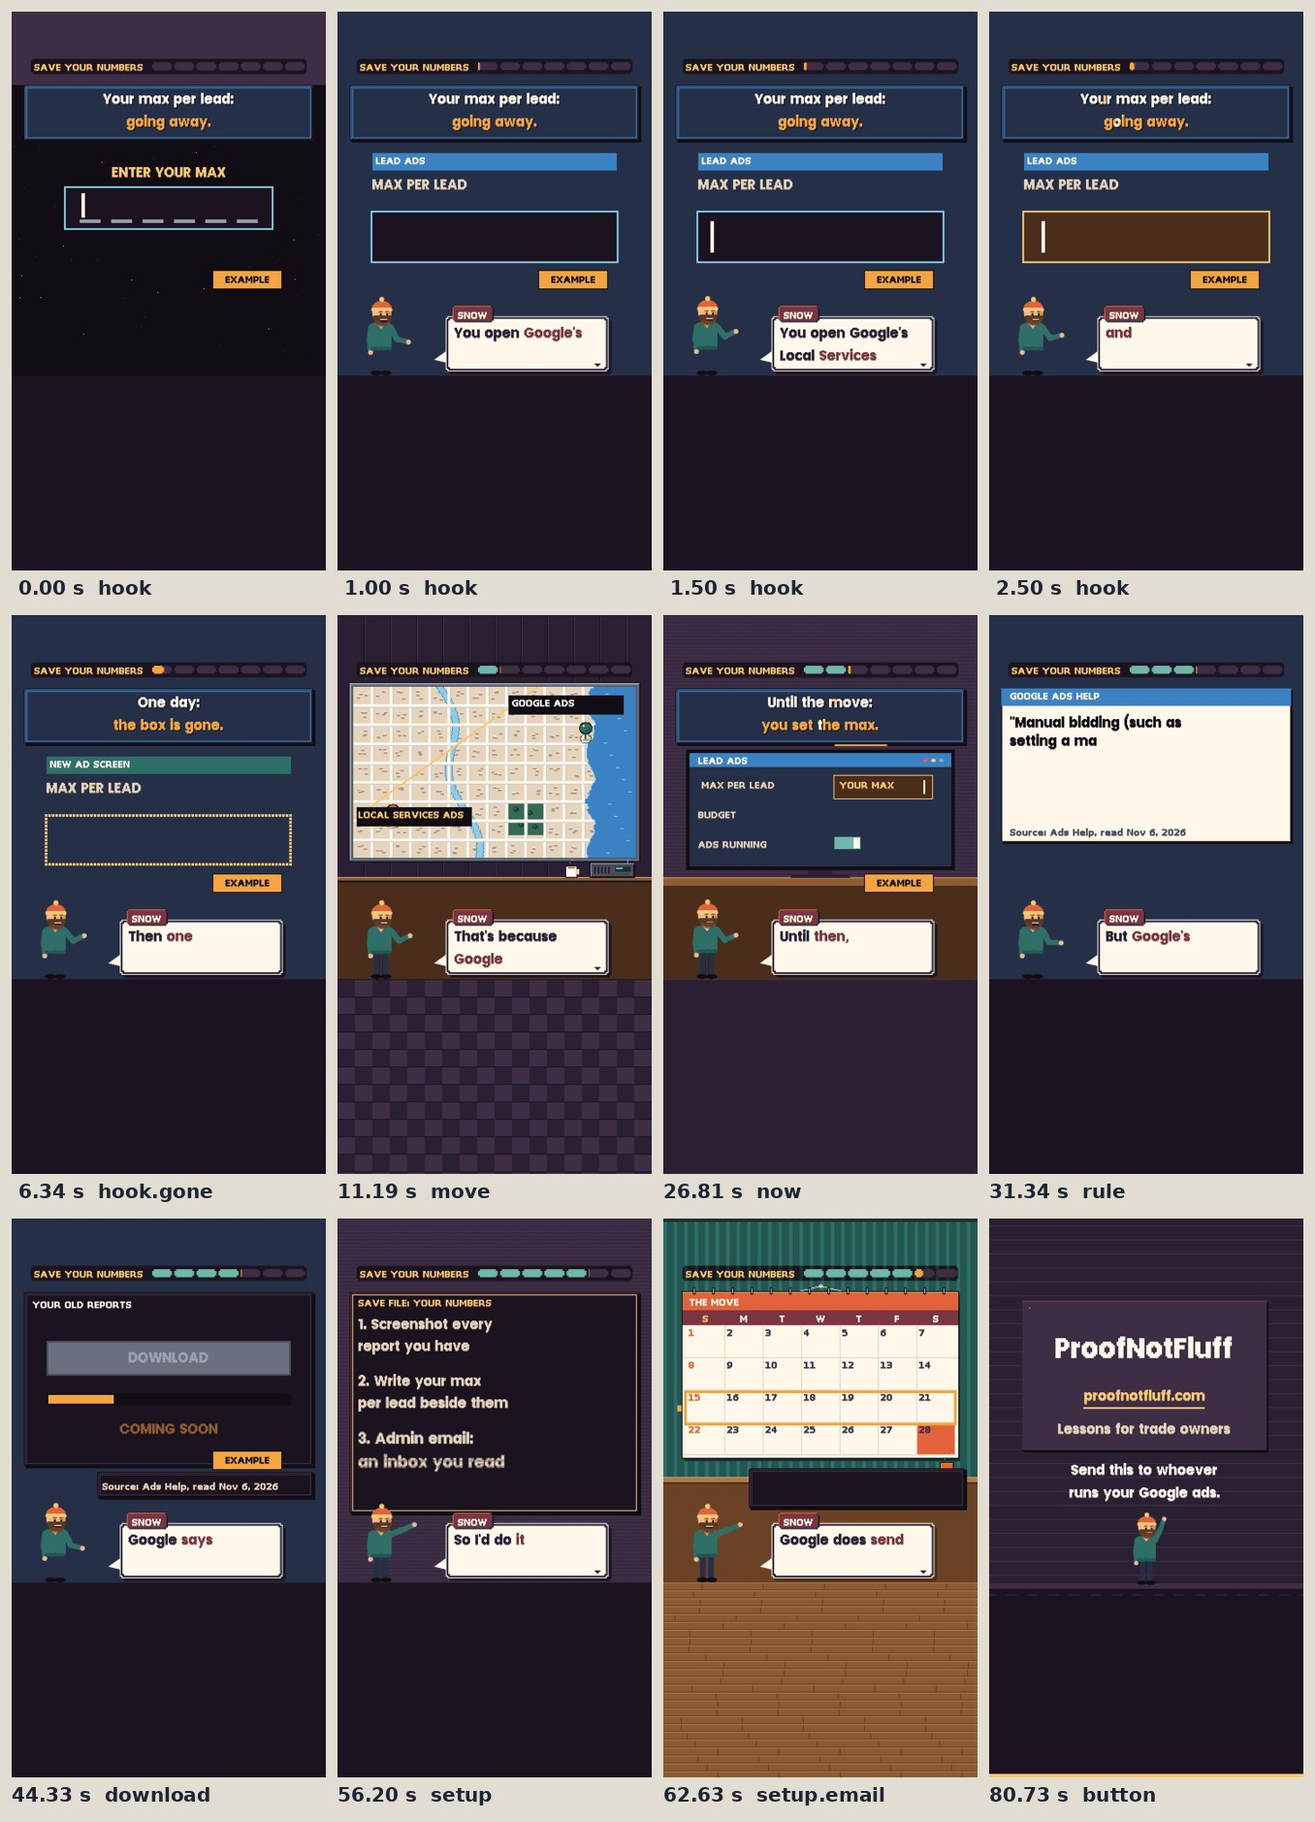
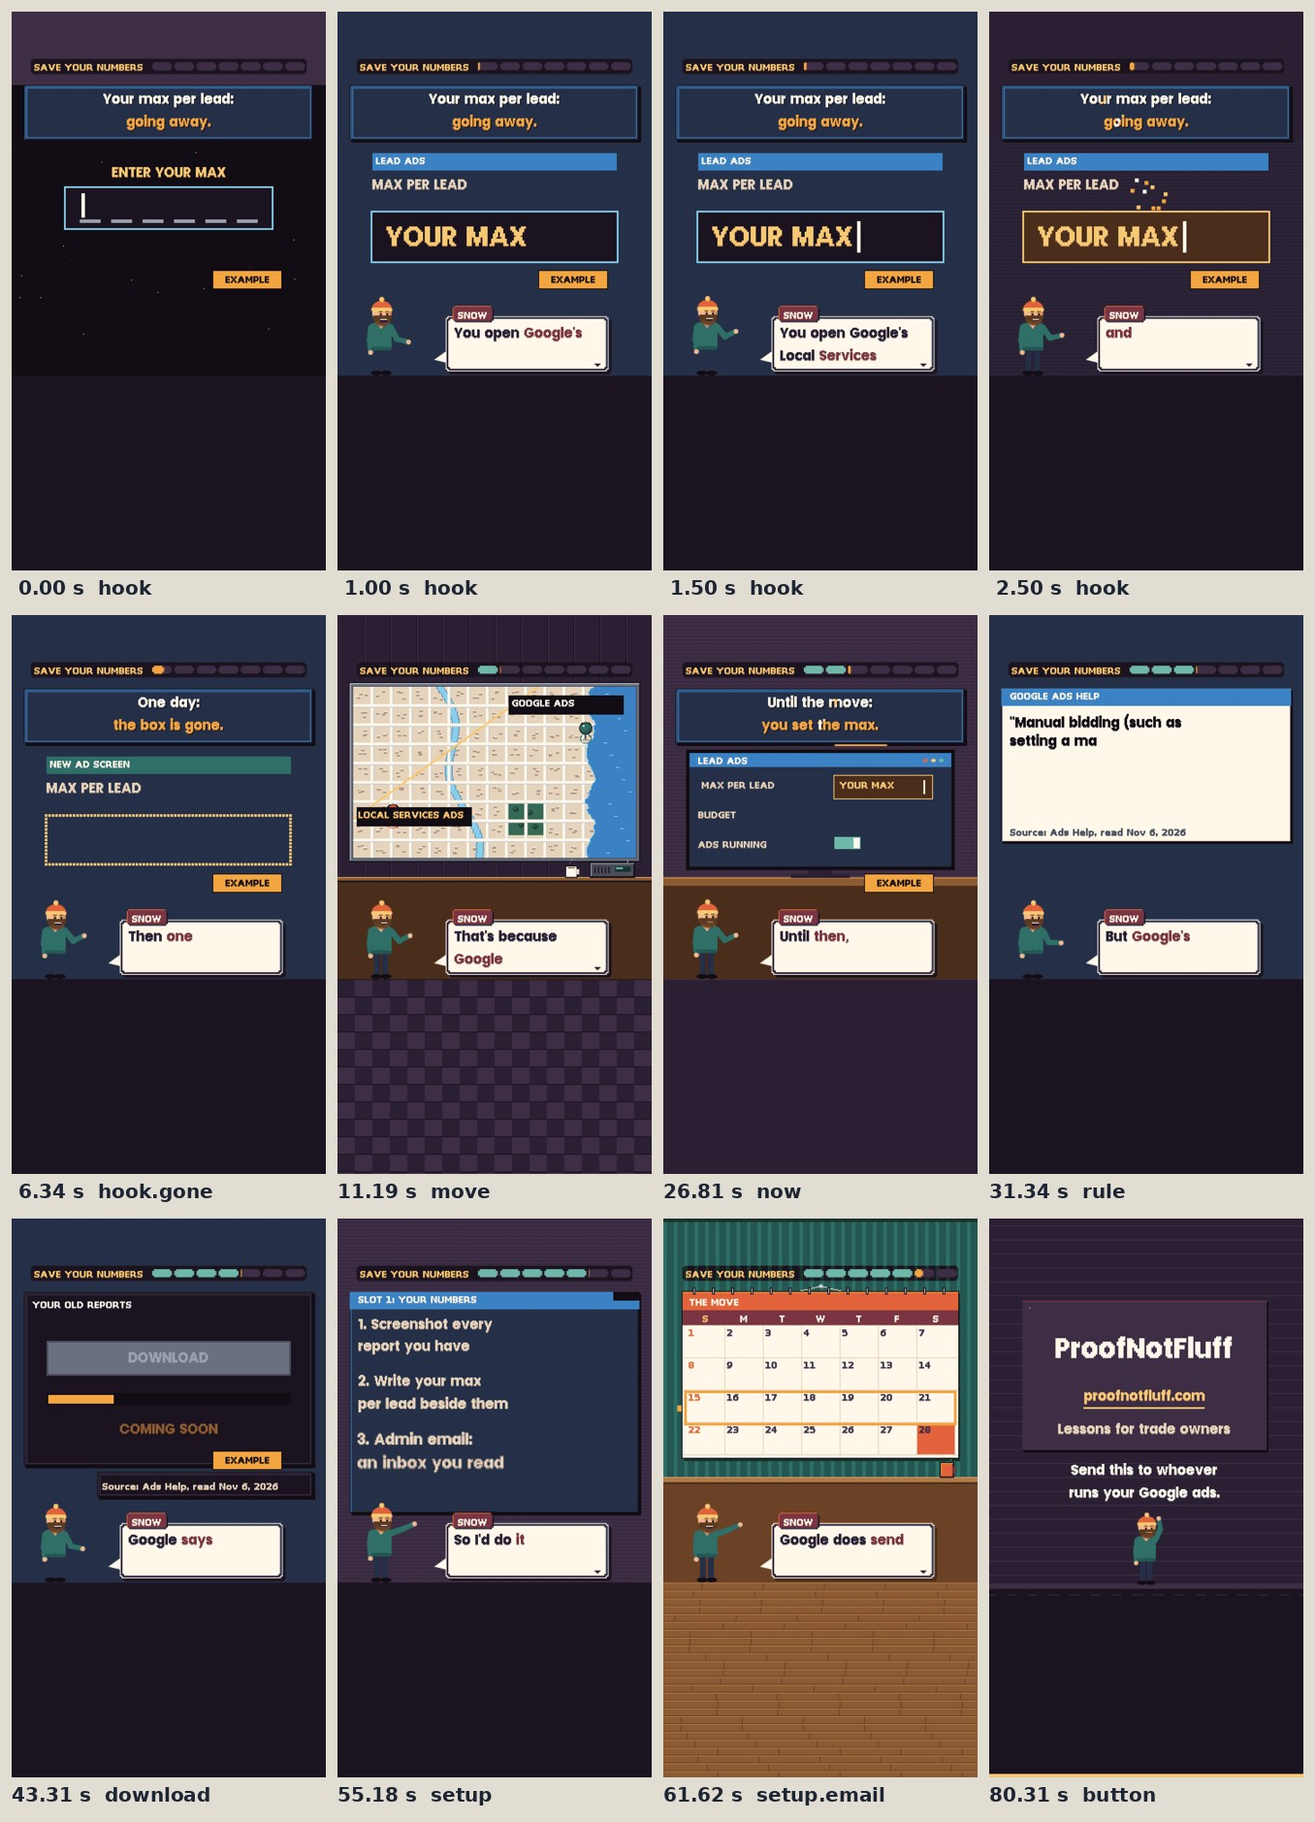
studio: lsa-max-bid round 1 fixes (story gate re-voice, design, render critic)
Claude-Session: https://claude.ai/code/session_01XMn4eH6jv5VNCcbkSCRwZg

diff --git a/video/studio/videos/2026-11-18-lsa-max-bid/04_scene/scene.js b/video/studio/videos/2026-11-18-lsa-max-bid/04_scene/scene.js
@@ -131,9 +131,9 @@ window.SCENE = {
     /* ---- hook: scene one, the box (cover, no host): our ad screen, the cursor in the MAX PER LEAD box; on "type" it   */
     /* fills gold. Scene two on "Then": the new screen, the box crumbles on "gone", BOX GONE stamps.                      */
     hook: (k, T) => {
-      const tIn = Math.min(0.9, Math.max(0.5, wordT(k, 'hook', /^open/i, 0.4) + 0.2)), tType = wordT(k, 'hook', /^type/i, 1.6) - 0.05, tTwo = k.S('hook.gone'), tGone = wordT(k, 'hook.gone', /^moves?$/i, 1.0) + 0.3;
+      const tIn = Math.min(0.9, Math.max(0.5, wordT(k, 'hook', /^open/i, 0.4) + 0.2)), tType = Math.min(0.9, Math.max(0.5, wordT(k, 'hook', /^open/i, 0.4) + 0.2)), tGold = wordT(k, 'hook', /^type/i, 1.6) - 0.1, tTwo = k.S('hook.gone'), tGone = wordT(k, 'hook.gone', /^moves?$/i, 1.0) + 0.3;
       const d = px(k), {P, dith} = d, bx = 40, by = 206, bw = 280, bh = 56;
-      P(0, 0, 360, 417, T >= tIn ? '#1F2A40' : '#3D2E45'); for (let y = 150; y < 417; y += 4) dith(0, y, 360, 1, T >= tIn ? '#253048' : '#2B2033', (y / 4) % 2);
+      P(0, 0, 360, 417, (T >= tGold && T < tTwo) ? '#2B2033' : (T >= tIn ? '#1F2A40' : '#3D2E45')); for (let y = 150; y < 417; y += 4) dith(0, y, 360, 1, T >= tIn ? '#253048' : '#2B2033', (y / 4) % 2);
       P(0, 417, 360, 223, NIGHT);
       const head = T >= tTwo ? 'NEW AD SCREEN' : 'LEAD ADS';
       P(bx, 162, bw, 20, T >= tTwo ? '#2F6F67' : '#3B82C4'); k.text(head, 132, 492, {size: 48, color: CREAM, lint: false});
@@ -149,8 +149,9 @@ window.SCENE = {
         return {host: false, speech: false};
       }
       if (T < tTwo) {
-        const fill = T >= tType;
-        P(bx - 2, by + 22, bw + 4, bh + 4, fill ? GOLD : SKY); P(bx, by + 24, bw, bh, fill ? '#4A3A1A' : NIGHT);
+        const fill = T >= tType, gold = T >= tGold;
+        if (gold) k.burst(540, 650, tGold, {n: 14, r: 240});
+        P(bx - 2, by + 22, bw + 4, bh + 4, gold ? GOLD : SKY); P(bx, by + 24, bw, bh, gold ? '#4A3A1A' : NIGHT);
         const n = fill ? Math.min(8, Math.floor((T - tType) * 30)) : 0; if (n) k.text('YOUR MAX'.slice(0, n), 168, 708, {size: 99, color: GOLD});
         if ((d.F >> 4) % 2 === 0) P(fill ? bx + 16 + Math.round(k.measure('YOUR MAX'.slice(0, n), {size: 99}) / 3) + 4 : bx + 14, by + 34, 4, 36, CREAM);
         topPlate(k, d, 'Your max per lead:', 'going away.', -1);
@@ -195,7 +196,8 @@ window.SCENE = {
       tiles.forEach(([a, b, ti], i) => { const x = 14 + i * 98, lit = T >= ti, mine = i === 1 && T >= tTruck;
         win(x, 104, 92, 120, {base: mine ? '#4A3A1A' : (lit ? '#253048' : NIGHT), hi: mine ? GOLD : '#3B82C4', lo: INK, rule: mine ? GOLD : false});
         k.text(a, (x + 46) * 3, 354, {size: 48, color: lit ? CREAM : SAND, align: 'center'});
-        k.text(b, (x + 46) * 3, 420, {size: 36, color: lit ? SAND : '#C9B8A6', align: 'center'}); });
+        k.text(b, (x + 46) * 3, 420, {size: i === 1 ? 30 : 36, color: lit ? SAND : '#C9B8A6', align: 'center'});
+        if (i !== 1 && lit) { const dy = d.ease(ti, 5, 20); k.sets.icon(i === 0 ? 'star' : 'clock', x + 34, 168 - dy, 2); } });
       /* the wave: a crest rolling along under the tiles */
       { const q = ((T - tW) * 0.5) % 1, cx = Math.round(18 + q * 330); for (let i = -20; i <= 20; i++) { const h = Math.round(6 * Math.cos(i / 20 * Math.PI / 2)); P(cx + i, 236 - h, 1, h + 2, SKY); } P(0, 238, 360, 4, '#3B82C4'); }
       if (T >= tTruck) { const dy = d.ease(tTruck, 5, 30); k.sets.van(126, 182 - dy, {wheel: F}); if (!dy && T >= tWave) k.slam('YOUR WAVE', 495, 744, tWave, {size: 66, color: GOLD, align: 'center', from: 0.4}); }
@@ -222,10 +224,11 @@ window.SCENE = {
         P(0, 0, 360, 417, '#253048'); { const sc = Math.floor(d.F / 2) % 8; for (let y = -8; y < 417; y += 8) dith(0, y + sc, 360, 2, '#1F2A40', 0); }
         P(0, 417, 360, 223, NIGHT);
         helpCard(k, d, ['"Manual bidding (such as', 'setting a maximum cost-per-', 'lead) is no longer', 'supported in Google Ads."'], t0 + 0.05, {h: 176});
+        if (T >= tMax + 0.8) loopSweep(k, 72, 534, k.measure('supported in Google Ads."', {size: 52}), tMax + 0.8, 0.8, 8);
         if (T >= tMax) stampBox(k, 'NO MAX', 640, 830, tMax, {color: RED, freeze: 5});
         return host(k, T >= tMax ? 'point' : null);
       }
-      const d = px(k), {P, dith, win, F} = d, tCopy = tR + 0.3, tFail = tR + 1.3, tLeads = wordT(k, 'rule.reports', /^stay/i, 1.6) - 0.3;
+      const d = px(k), {P, dith, win, F} = d, tCopy = tR + 0.3, tFail = tR + 1.3, tLeads = wordT(k, 'rule.reports', /^reports/i, 1.4) - 0.3;
       P(0, 0, 360, 417, '#120D14'); for (let i = 0; i < 30; i++) d.DOT(Math.floor(hash(i * 5.3) * 360), Math.floor(hash(i * 2.1) * 400), '#3D2E45');
       P(0, 417, 360, 223, NIGHT);
       k.text('COPY SAVE DATA', 540, 258, {size: 48, color: GOLD, align: 'center'});
@@ -237,11 +240,10 @@ window.SCENE = {
       const g = T >= tFail ? ((d.F >> 1) % 6 === 0 ? 3 : 0) : 0;
       win(14 + g, 206, 332, 70, {base: '#2F6F67', hi: TEAL, lo: INK, rule: false});
       k.text('SLOT 2: GOOGLE ADS', 84 + g * 3, 636, {size: 39, color: CREAM});
-      if (T >= tFail) { for (let i = 0; i < 6; i++) { const yy = (i % 2 ? 260 : 224) + Math.floor(hash(i + (d.F >> 2)) * 12); P(30, yy, 300, 2, i % 2 ? RED : '#120D14'); }
-        k.text('NO DATA', 300 + g * 3, 744, {size: 66, color: RED}); }
-      if (T >= tLeads) k.slam('Leads move. Reports stay behind.', 312, 870, tLeads, {size: 39, color: GOLD, from: 0.3});
-      plate(d, 98, 300, 248, 30);
-      k.text('"performance reports will not transition"', 312, 916, {size: 33, color: SAND, lint: false});
+      if (T >= tFail) { for (let i = 0; i < 4; i++) { const yy = 232 + i * 7 + Math.floor(hash(i + (d.F >> 2)) * 4); P(170 + Math.floor(hash(i * 3 + (d.F >> 2)) * 30), yy, 130, 2, i % 2 ? RED : '#120D14'); }
+        k.text('NO DATA', 84 + g * 3, 690, {size: 66, color: RED}); k.text('LEADS: MOVED', 620, 636, {size: 39, color: GOLD}); }
+      k.text('"performance reports will not transition"', 84, 772, {size: 33, color: CREAM, lint: false});
+      if (T >= tLeads) k.slam('Reports stay behind.', 312, 846, tLeads, {size: 56, color: GOLD, from: 0.3});
       return host(k, T >= tFail ? 'shrug' : null);
     },
 
@@ -268,6 +270,7 @@ window.SCENE = {
       win(116, 96, 230, 130, {base: CREAM, hi: '#FFFFFF', lo: SAND, rule: false});
       k.text('Need them now?', 384, 312, {size: 48, color: INK});
       if (T >= tTake) { k.slam('"take screenshots', 384, 400, tTake, {size: 52, color: INK, from: 0.3}); k.slam('of them before', 384, 460, tTake, {size: 52, color: INK, from: 0.3}); k.slam('migrating."', 384, 520, tTake, {size: 52, color: INK, from: 0.3}); }
+      if (T >= tTake + 0.6) loopSweep(k, 384, 580, k.measure('of them before', {size: 52}), tTake + 0.6, 0.8, 8);
       plate(d, 98, 290, 248, 30); k.text('Source: Ads Help, read Nov 6, 2026', 312, 900, {size: 36, color: SAND});
       return host(k, T >= tTake ? 'point' : null);
     },
@@ -281,16 +284,15 @@ window.SCENE = {
         const d = px(k), {P, dith, win} = d;
         P(0, 0, 360, 417, '#3D2E45'); for (let y = 0; y < 417; y += 4) dith(0, y, 360, 1, '#2B2033', (y / 4) % 2); P(0, 417, 360, 223, NIGHT);
         const up = d.ease(t0 + 0.05, 6, 160);
-        d.clip(0, 0, 360, 340, () => win(14, 84 + up, 332, 254, {base: NIGHT, hi: '#7A3442', lo: INK, rule: GOLD}));
+        d.clip(0, 0, 360, 340, () => { win(14, 84 + up, 332, 254, {base: '#253048', hi: '#3B82C4', lo: INK, rule: false}); P(14, 84 + up, 332, 20, '#3B82C4'); P(316, 84 + up, 30, 10, '#120D14'); });
         if (up !== 0) return host(k);
-        k.text('SAVE FILE: YOUR NUMBERS', 72, 270, {size: 48, color: GOLD});
+        k.text('SLOT 1: YOUR NUMBERS', 72, 258, {size: 48, color: CREAM});
         [['1. Screenshot every', 'report you have', tShot], ['2. Write your max', 'per lead beside them', tMax], ['3. Admin email:', 'an inbox you read', 1e9]].forEach(([a, b, ti], i) => {
           const lit = T >= ti - 0.25, y = 330 + i * 196;
           k.slam(a, 72, y, Math.min(ti - 0.25, t0 + 0.3 + i * 0.1), {size: 66, color: lit ? GOLD : SAND, from: 0.3});
           k.slam(b, 72, y + 76, Math.min(ti - 0.2, t0 + 0.35 + i * 0.1), {size: 66, color: lit ? CREAM : SAND, from: 0.3});
           if (lit) k.sweep(72, y + 150, k.measure(b, {size: 66}), 6, ti - 0.2, {color: 'accent'}); });
         loopSweep(k, 72, T >= tMax - 0.25 ? 676 : 480, k.measure(T >= tMax - 0.25 ? 'per lead beside them' : 'report you have', {size: 66}), tShot + 0.6, 1.0);
-        if ((d.F >> 4) % 2 === 0) d.P(318, 254, 3, 14, GOLD);
         return host(k, 'point');
       }
       const tEnv = wordT(k, 'setup.email', /^fourteen/i, 2.6) - 0.25;
@@ -300,7 +302,7 @@ window.SCENE = {
         weeks: Array.from({length: Math.max(1, Math.ceil((tEnv - 0.2 - tE) / 0.5))}, (_, i) => ({row: 3 - (i % 4), at: tE + i * 0.5})).concat([{row: 1, at: tEnv - 0.2}])});
       const d = px(k), {P} = d;
       { const [x, y] = c.cell ? c.cell(28 - n14) : [0, 0]; if (T >= tEnv + 0.1 && c.cell) { const dy = d.ease(tEnv + 0.1, 5, 16); P(x + 10, y + 6 - dy, 24, 16, INK); P(x + 11, y + 7 - dy, 22, 14, CREAM); d.line(x + 11, y + 7 - dy, x + 22, y + 15 - dy, '#9AA0AD'); d.line(x + 33, y + 7 - dy, x + 22, y + 15 - dy, '#9AA0AD'); } }
-      plate(d, 98, 286, 248, 46);
+      if (T >= Math.min(tInbox - 0.3, tE + 0.6)) plate(d, 98, 286, 248, 46);
       k.slam(`${n14} DAYS OUT: ADMIN EMAIL`, 312, 870, tEnv, {size: 48, color: GOLD, from: 0.3});
       if (T >= tInbox + 0.4) loopSweep(k, 312, 984, k.measure('3. Admin email: an inbox you read', {size: 48}), tInbox + 0.4, 0.9, 4);
       const lit3 = T >= tInbox - 0.3; k.slam('3. Admin email: an inbox you read', 312, 928, Math.min(tInbox - 0.3, tE + 0.6), {size: 48, color: lit3 ? CREAM : GREY, from: 0.3});
@@ -310,10 +312,11 @@ window.SCENE = {
     /* ---- button: the monitor, the box crumbled; on "Grab" the save slot fills: SAVED, the screenshots inside. Snow    */
     /* points. Then the end card with the send line.                                                                    */
     button: (k, T) => {
-      const t0 = k.S('button'), tSave = wordT(k, 'button', /^save/i, 1.6), tMove = wordT(k, 'button', /^move/i, 2.4);
+      const t0 = k.S('button'), tSave = wordT(k, 'button', /^screenshot/i, 1.6) + 0.3, tMove = wordT(k, 'button', /^move/i, 2.4);
       if (T < tSave - 0.3) {
         const d = monitor(k, {box: 'gone', goneAt: t0 - 1, newScreen: true});
         topPlate(k, d, 'The box is going,', 'whatever you do.', t0 - 0.3);
+        loopSweep(k, 540 - k.measure('whatever you do.', {size: 66}) / 2, 410, k.measure('whatever you do.', {size: 66}), t0 + 0.4, 0.8);
         exampleTag(d, 230, 296);
         return host(k, 'shrug');
       }

diff --git a/video/studio/videos/2026-11-18-lsa-max-bid/03_cues/cues.js b/video/studio/videos/2026-11-18-lsa-max-bid/03_cues/cues.js
@@ -1,1 +1,1 @@
-window.CUES = {"schema": "pnf.studio.cues.v1", "source": "whisper medium.en int8, re-spelled from script.md", "music": {"id": "rooms", "level": 0.16, "tune": "quest"}, "duration": 81.031, "cues": [{"id": "hook", "level": 0, "quote": "You open Google's Local", "sfx": "pop", "shift": 0.0, "pin": null, "text": "Cover, frame one, no host: our own drawn ad screen on a desk monitor (EXAMPLE, never Google's UI): LEAD ADS, a row MAX PER LEAD with a box; the cursor blinks in it; on \"type\" the box fills and turns gold. Plate \"Your max per lead\" / \"Going away.\" Snow comes in.", "t": 0.0, "word": 0, "end": 10.586}, {"id": "hook.gone", "level": 1, "quote": "Then one day Google", "sfx": "whoosh", "shift": 0.0, "pin": null, "text": "Scene two: the same monitor, a new screen; the row is there, the box is a dashed outline that crumbles away on \"gone\"; BOX GONE stamps.", "t": 5.74, "word": 18, "end": 10.586}, {"id": "move", "level": 0, "quote": "That's because Google is", "sfx": "whoosh", "shift": 0.0, "pin": null, "text": "Our own street: a little sign LOCAL SERVICES ADS drives on a van into a big building GOOGLE ADS.", "t": 10.586, "word": 33, "end": 26.214}, {"id": "move.waves", "level": 1, "quote": "But not all at", "sfx": "blip", "shift": 0.0, "pin": null, "text": "The wave strip: three tiles AUG 2026 FIRST WAVE (lit), LATE 2026 NO STOREFRONT, 2027 THE REST; a wave rolls along; on \"truck\" a van icon drops on LATE 2026 with YOUR WAVE. Tag Google Ads Help, read Nov 6, 2026.", "t": 15.026, "word": 44, "end": 26.214}, {"id": "now", "level": 0, "quote": "Until then, you set", "sfx": "tick", "shift": 0.0, "pin": null, "text": "Back on the monitor: the box with YOUR MAX lit, and a report card under it, SPENT bars growing (EXAMPLE).", "t": 26.214, "word": 78, "end": 30.74}, {"id": "rule", "level": 0, "quote": "But Google's help page", "sfx": "whoosh", "shift": 0.0, "pin": null, "text": "Mosaic to the help page card: GOOGLE ADS HELP; the line types in: \"Manual bidding (such as setting a maximum cost-per-lead) is no longer supported in Google Ads.\" NO MAX stamps.", "t": 30.74, "word": 91, "end": 43.729}, {"id": "rule.reports", "level": 1, "quote": "Worse, your old spend", "sfx": "stamp", "shift": 0.0, "pin": null, "text": "A split: left OLD (the report papers), right GOOGLE ADS (empty shelf); the papers try to cross and bounce back: STAYS BEHIND; the line \"performance reports will not transition\" with its tag.", "t": 36.12, "word": 109, "end": 43.729}, {"id": "download", "level": 0, "quote": "Google says you'll be", "sfx": "blip", "shift": 0.0, "pin": null, "text": "A download screen: DOWNLOAD OLD REPORTS button greyed, a loading bar that never fills, COMING SOON blinking (2 a second); tag \"Google Ads Help, read Nov 6, 2026\".", "t": 43.729, "word": 130, "end": 55.595}, {"id": "download.shot", "level": 1, "quote": "Need them now? It", "sfx": "chime", "shift": 0.0, "pin": null, "text": "A camera flash; the quote card: \"take screenshots of them before migrating\".", "t": 51.589, "word": 154, "end": 55.595}, {"id": "setup", "level": 0, "quote": "So I'd do it", "sfx": "whoosh", "shift": 0.0, "pin": null, "text": "The save screen (ITEM GET / SAVE FILE): SAVE YOUR NUMBERS, step 1 \"Screenshot every report\" lights, step 2 \"Write your max beside them\".", "t": 55.595, "word": 164, "end": 72.111}, {"id": "setup.email", "level": 1, "quote": "Google does send a", "sfx": "blip", "shift": 0.0, "pin": null, "text": "The calendar: the move day marked MOVE; fourteen days back an envelope lands on the day ADMIN EMAIL; step 3 \"Admin email: an inbox you read\" lights on the save card under it.", "t": 62.035, "word": 183, "end": 72.111}, {"id": "button", "level": 0, "quote": "The box is going,", "sfx": "whoosh", "shift": 0.0, "pin": null, "text": "The monitor again, the box crumbled; then the save file slot fills: SAVED with the screenshots inside; Snow points. Then the end card with the send line.", "t": 72.111, "word": 212, "end": 81.031}]};
+window.CUES = {"schema": "pnf.studio.cues.v1", "source": "whisper medium.en int8, re-spelled from script.md", "music": {"id": "rooms", "level": 0.16, "tune": "quest"}, "duration": 80.613, "cues": [{"id": "hook", "level": 0, "quote": "You open Google's Local", "sfx": "pop", "shift": 0.0, "pin": null, "text": "Cover, frame one, no host: our own drawn ad screen on a desk monitor (EXAMPLE, never Google's UI): LEAD ADS, a row MAX PER LEAD with a box; the cursor blinks in it; on \"type\" the box fills and turns gold. Plate \"Your max per lead\" / \"Going away.\" Snow comes in.", "t": 0.0, "word": 0, "end": 10.586}, {"id": "hook.gone", "level": 1, "quote": "Then one day Google", "sfx": "whoosh", "shift": 0.0, "pin": null, "text": "Scene two: the same monitor, a new screen; the row is there, the box is a dashed outline that crumbles away on \"gone\"; BOX GONE stamps.", "t": 5.74, "word": 18, "end": 10.586}, {"id": "move", "level": 0, "quote": "That's because Google is", "sfx": "whoosh", "shift": 0.0, "pin": null, "text": "Our own street: a little sign LOCAL SERVICES ADS drives on a van into a big building GOOGLE ADS.", "t": 10.586, "word": 33, "end": 26.214}, {"id": "move.waves", "level": 1, "quote": "But not all at", "sfx": "blip", "shift": 0.0, "pin": null, "text": "The wave strip: three tiles AUG 2026 FIRST WAVE (lit), LATE 2026 NO STOREFRONT, 2027 THE REST; a wave rolls along; on \"truck\" a van icon drops on LATE 2026 with YOUR WAVE. Tag Google Ads Help, read Nov 6, 2026.", "t": 15.026, "word": 44, "end": 26.214}, {"id": "now", "level": 0, "quote": "Until then, you set", "sfx": "tick", "shift": 0.0, "pin": null, "text": "Back on the monitor: the box with YOUR MAX lit, and a report card under it, SPENT bars growing (EXAMPLE).", "t": 26.214, "word": 78, "end": 30.74}, {"id": "rule", "level": 0, "quote": "But Google's help page", "sfx": "whoosh", "shift": 0.0, "pin": null, "text": "Mosaic to the help page card: GOOGLE ADS HELP; the line types in: \"Manual bidding (such as setting a maximum cost-per-lead) is no longer supported in Google Ads.\" NO MAX stamps.", "t": 30.74, "word": 91, "end": 42.711}, {"id": "rule.reports", "level": 1, "quote": "So once you move,", "sfx": "stamp", "shift": 0.0, "pin": null, "text": "A split: left OLD (the report papers), right GOOGLE ADS (empty shelf); the papers try to cross and bounce back: STAYS BEHIND; the line \"performance reports will not transition\" with its tag.", "t": 36.08, "word": 109, "end": 42.711}, {"id": "download", "level": 0, "quote": "Google says you'll be", "sfx": "blip", "shift": 0.0, "pin": null, "text": "A download screen: DOWNLOAD OLD REPORTS button greyed, a loading bar that never fills, COMING SOON blinking (2 a second); tag \"Google Ads Help, read Nov 6, 2026\".", "t": 42.711, "word": 128, "end": 54.577}, {"id": "download.shot", "level": 1, "quote": "Need them now? It", "sfx": "chime", "shift": 0.0, "pin": null, "text": "A camera flash; the quote card: \"take screenshots of them before migrating\".", "t": 50.571, "word": 152, "end": 54.577}, {"id": "setup", "level": 0, "quote": "So I'd do it", "sfx": "whoosh", "shift": 0.0, "pin": null, "text": "The save screen (ITEM GET / SAVE FILE): SAVE YOUR NUMBERS, step 1 \"Screenshot every report\" lights, step 2 \"Write your max beside them\".", "t": 54.577, "word": 162, "end": 71.093}, {"id": "setup.email", "level": 1, "quote": "Google does send a", "sfx": "blip", "shift": 0.0, "pin": null, "text": "The calendar: the move day marked MOVE; fourteen days back an envelope lands on the day ADMIN EMAIL; step 3 \"Admin email: an inbox you read\" lights on the save card under it.", "t": 61.017, "word": 181, "end": 71.093}, {"id": "button", "level": 0, "quote": "The box is going,", "sfx": "whoosh", "shift": 0.0, "pin": null, "text": "The monitor again, the box crumbled; then the save file slot fills: SAVED with the screenshots inside; Snow points. Then the end card with the send line.", "t": 71.093, "word": 210, "end": 80.613}]};

diff --git a/video/studio/videos/2026-11-18-lsa-max-bid/02_transcript/mouth.js b/video/studio/videos/2026-11-18-lsa-max-bid/02_transcript/mouth.js
@@ -1,1 +1,1 @@
[2 lines of base64/hex data omitted]

diff --git a/video/studio/videos/2026-11-18-lsa-max-bid/03_cues/cues.md b/video/studio/videos/2026-11-18-lsa-max-bid/03_cues/cues.md
@@ -18,7 +18,7 @@ Back on the monitor: the box with YOUR MAX lit, and a report card under it, SPEN
 
 ## rule "But Google's help page" [sfx: whoosh]
 Mosaic to the help page card: GOOGLE ADS HELP; the line types in: "Manual bidding (such as setting a maximum cost-per-lead) is no longer supported in Google Ads." NO MAX stamps.
-## rule.reports "Worse, your old spend" [sfx: stamp]
+## rule.reports "So once you move," [sfx: stamp]
 A split: left OLD (the report papers), right GOOGLE ADS (empty shelf); the papers try to cross and bounce back: STAYS BEHIND; the line "performance reports will not transition" with its tag.
 
 ## download "Google says you'll be" [sfx: blip]
